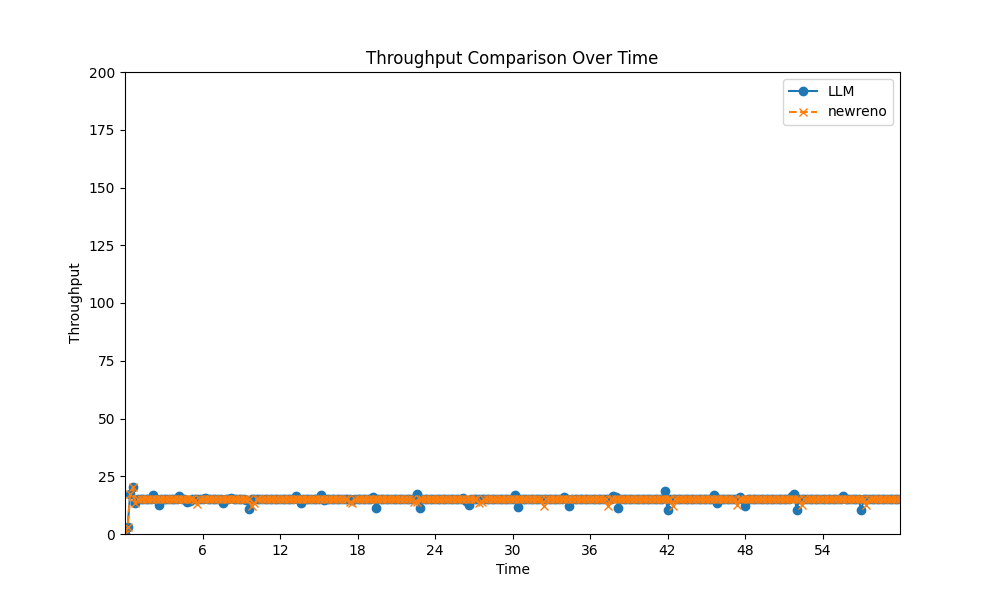
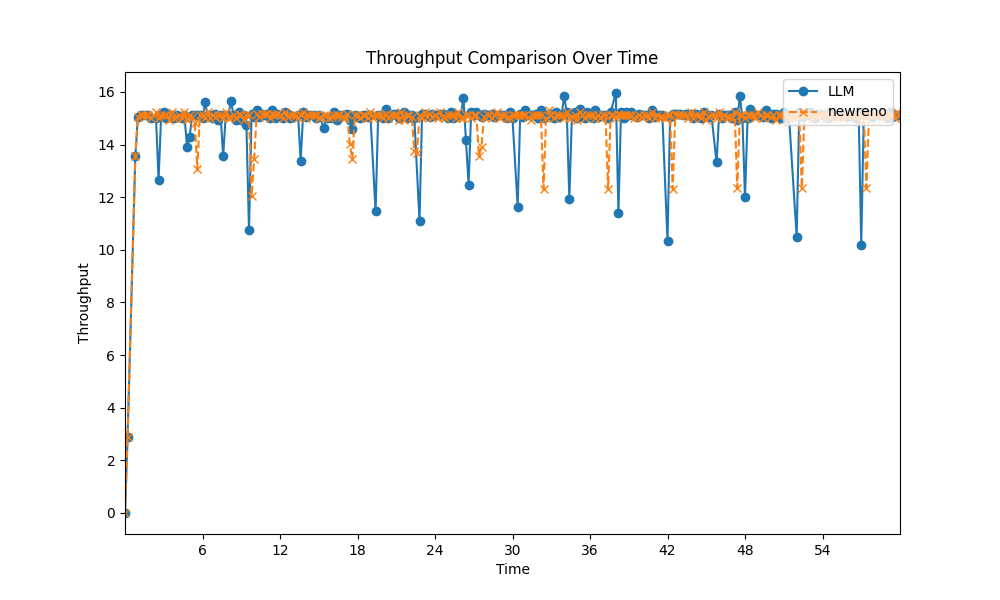
Update and modify plot_both_<>.py

diff --git a/scratch/plot_both_multi.py b/scratch/plot_both_multi.py
@@ -23,9 +23,9 @@ def plot_metric(metric_name, method_data, baseline_data, ylabel, output_file):
     plt.title(f"{metric_name} Comparison Over Time")
     plt.xlabel("Time")
     plt.ylabel(ylabel)
-    plt.legend()
+    plt.legend(loc='upper right')
     plt.xlim(0, 60)
-    plt.ylim(0, 200)
+    # plt.ylim(0, 200)
     plt.gca().xaxis.set_major_locator(MaxNLocator(integer=True, prune='both'))  # Show integer labels only, prune unused edges
     plt.savefig(output_file)
     plt.show()
@@ -42,4 +42,6 @@ rtt_baseline["RTT"] = rtt_baseline["RTT"].str.replace("ns", "").astype(float)
 plot_metric("RTT", rtt_method, rtt_baseline, "RTT (ms)", "plot_comparison/multi_sender/rtt_comparison.png")
 
 # Plot Throughput
+throughput_method = throughput_method.loc[throughput_method["Throughput"] <= 16]
+throughput_baseline = throughput_baseline.loc[throughput_baseline["Throughput"] <= 16]
 plot_metric("Throughput", throughput_method, throughput_baseline, "Throughput", "plot_comparison/multi_sender/throughput_comparison.png")

diff --git a/scratch/plot_both_fair.py b/scratch/plot_both_fair.py
@@ -22,9 +22,9 @@ def plot_metric(metric_name, method_data, baseline_data, ylabel, output_file):
     plt.title(f"{metric_name} Comparison Over Time")
     plt.xlabel("Time")
     plt.ylabel(ylabel)
-    plt.legend()
+    plt.legend(loc='upper right')
     plt.xlim(0, 60)
-    plt.ylim(0, 200)
+    # plt.ylim(0, 200)
     plt.gca().xaxis.set_major_locator(MaxNLocator(integer=True, prune='both'))  # Show integer labels only, prune unused edges
     plt.savefig(output_file)
     plt.show()
@@ -41,4 +41,6 @@ rtt_baseline["RTT"] = rtt_baseline["RTT"].str.replace("ns", "").astype(float)
 plot_metric("RTT", rtt_method, rtt_baseline, "RTT (ms)", "plot_comparison/fairness/rtt_comparison.png")
 
 # Plot Throughput
+throughput_method = throughput_method.loc[throughput_method["Throughput"] <= 16]
+throughput_baseline = throughput_baseline.loc[throughput_baseline["Throughput"] <= 16]
 plot_metric("Throughput", throughput_method, throughput_baseline, "Throughput", "plot_comparison/fairness/throughput_comparison.png")

diff --git a/scratch/plot_both_compete.py b/scratch/plot_both_compete.py
@@ -22,9 +22,9 @@ def plot_metric(metric_name, method_data, baseline_data, ylabel, output_file):
     plt.title(f"{metric_name} Comparison Over Time")
     plt.xlabel("Time")
     plt.ylabel(ylabel)
-    plt.legend()
+    plt.legend(loc='upper right')
     plt.xlim(0, 60)
-    plt.ylim(0, 200)
+    # plt.ylim(0, 200)
     plt.gca().xaxis.set_major_locator(MaxNLocator(integer=True, prune='both'))  # Show integer labels only, prune unused edges
     plt.savefig(output_file)
     plt.show()
@@ -41,4 +41,6 @@ rtt_baseline["RTT"] = rtt_baseline["RTT"].str.replace("ns", "").astype(float)
 plot_metric("RTT", rtt_method, rtt_baseline, "RTT (ms)", "plot_comparison/compete/rtt_comparison.png")
 
 # Plot Throughput
+throughput_method = throughput_method.loc[throughput_method["Throughput"] <= 16]
+throughput_baseline = throughput_baseline.loc[throughput_baseline["Throughput"] <= 16]
 plot_metric("Throughput", throughput_method, throughput_baseline, "Throughput", "plot_comparison/compete/throughput_comparison.png")
